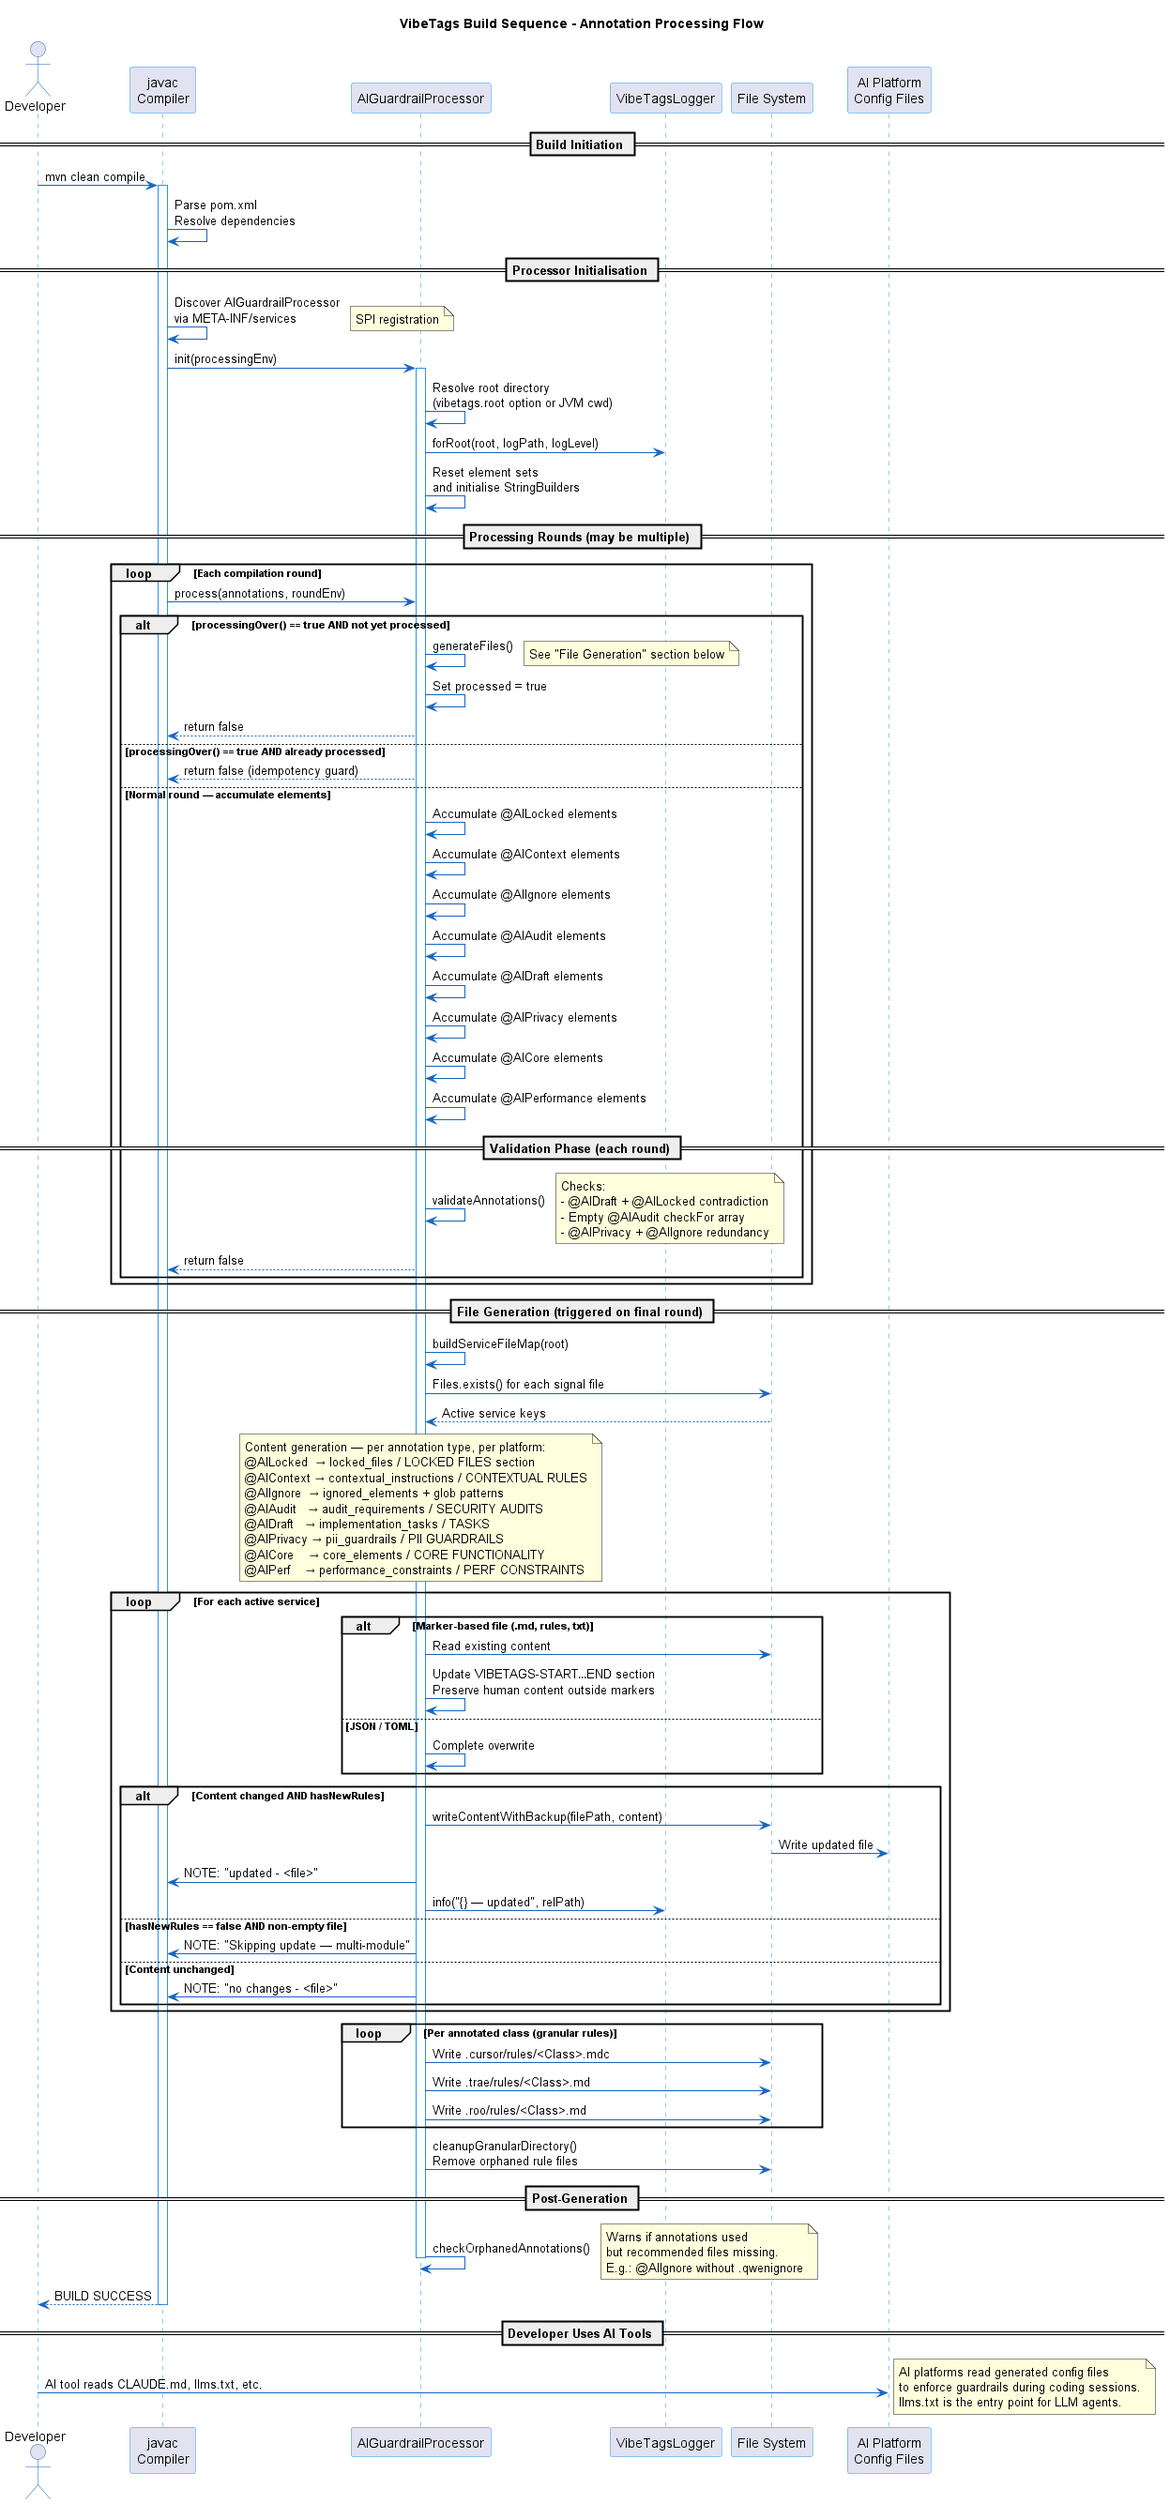
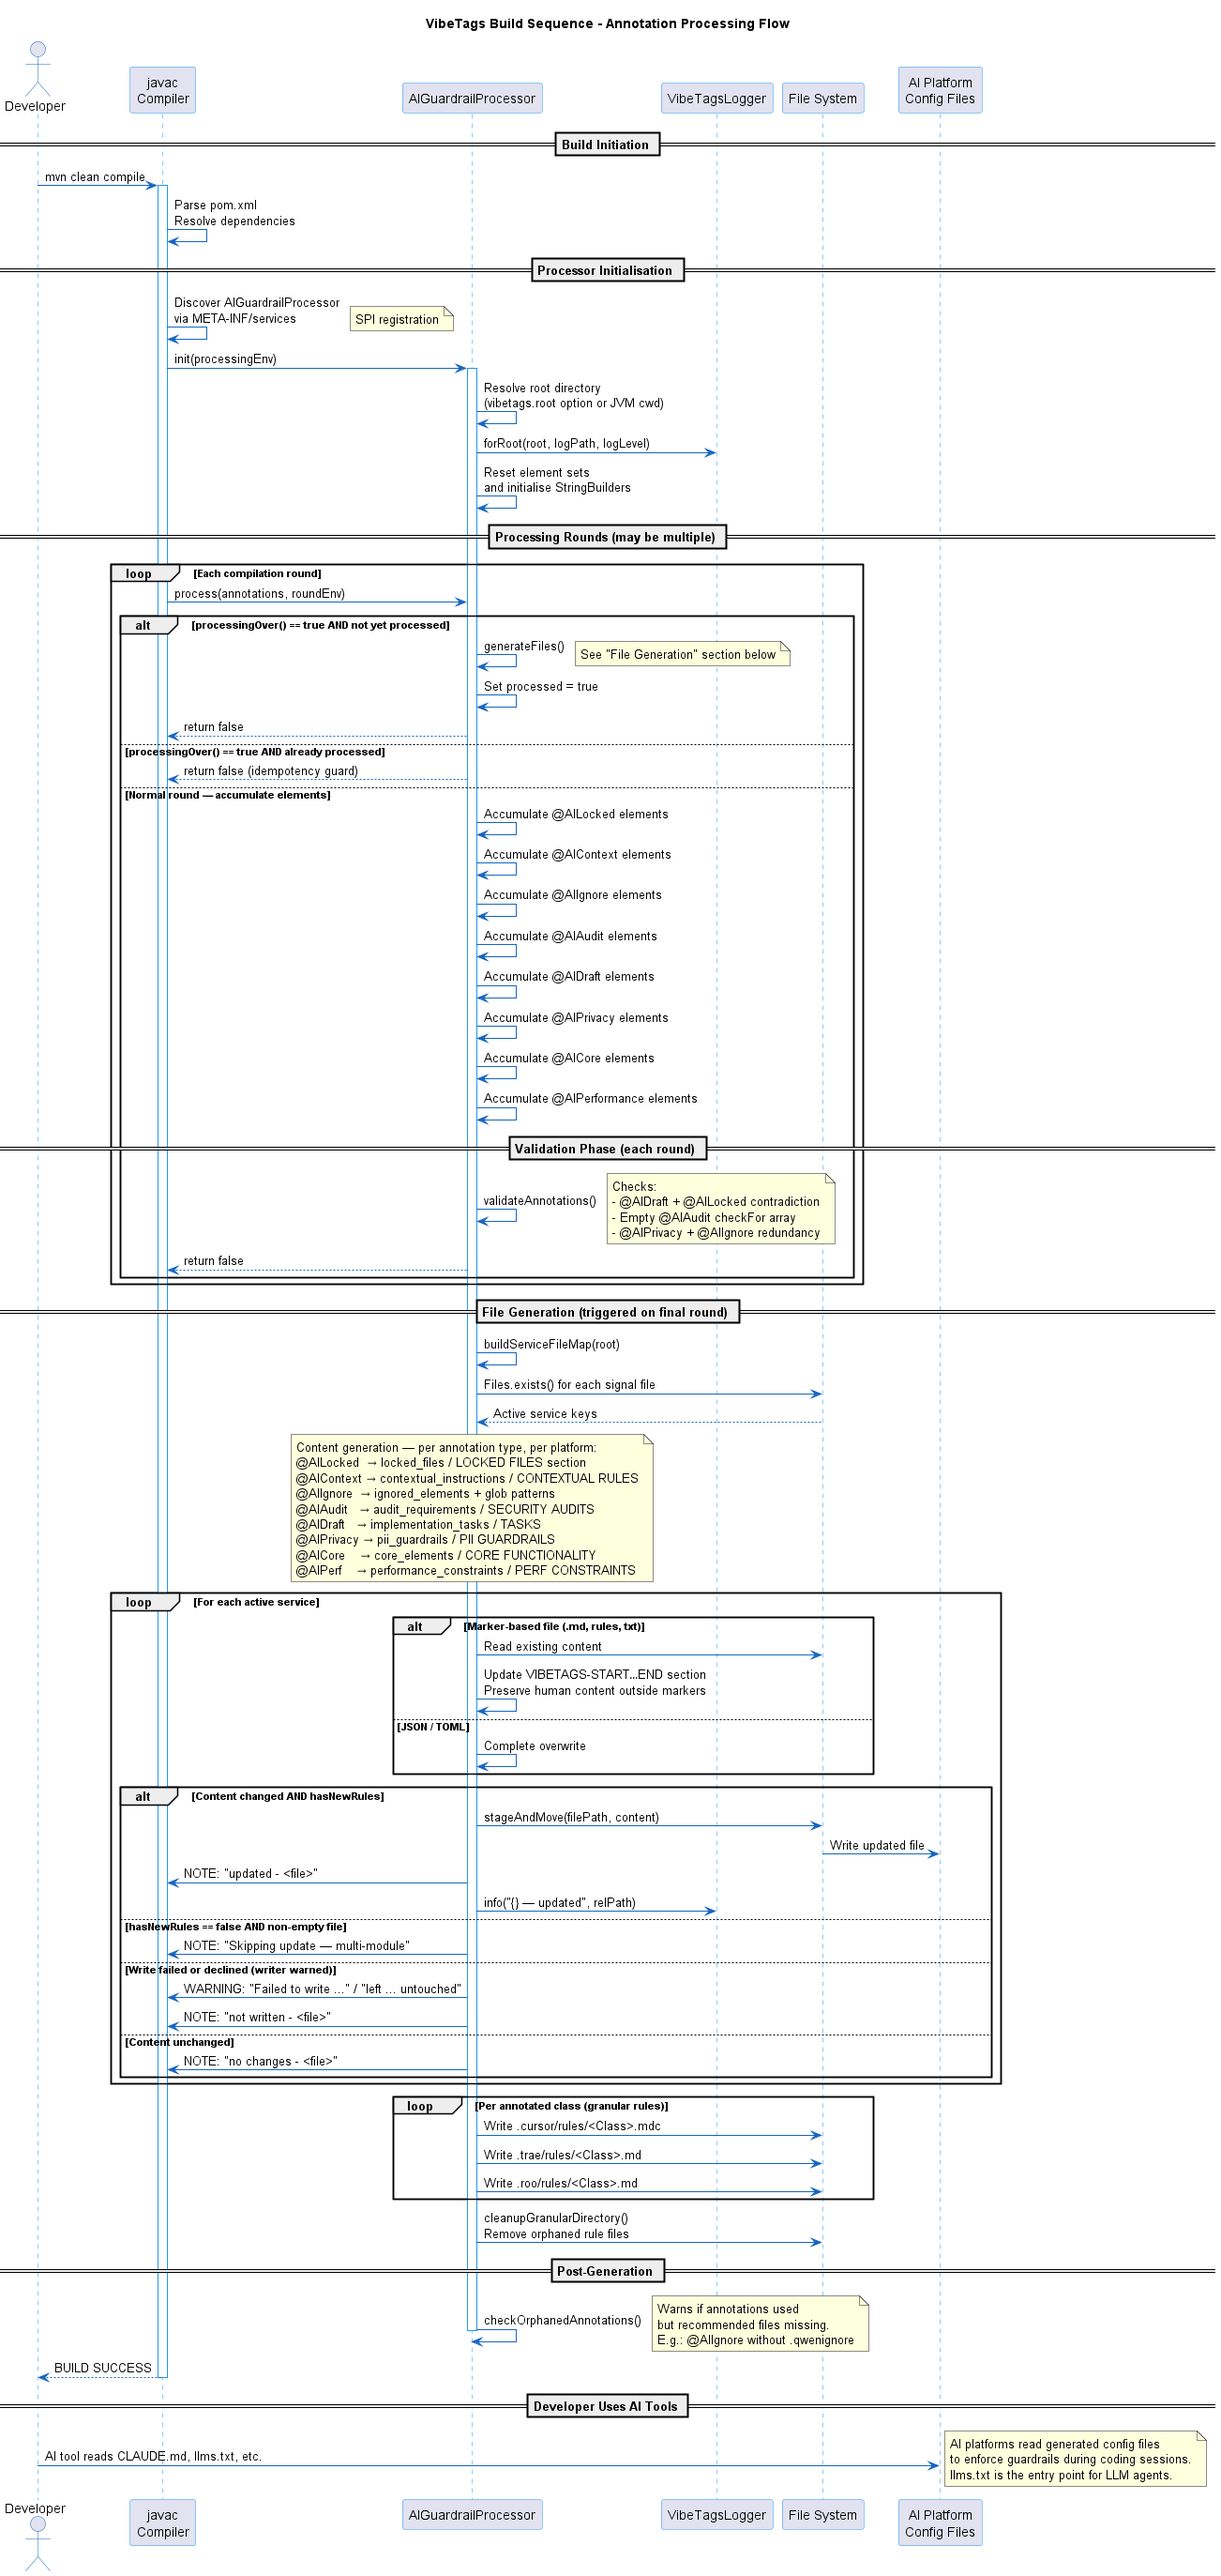
fix: report a file the writer did not write as "not written" (#1208, #1101)
GuardrailFileWriter.writeFileIfChanged answers false both for a file
that was already current and for one it failed to write or declined,
and generateFiles() mapped false to "no changes". So every write warning
was followed by a note contradicting it: a UTF-16 CLAUDE.md printed
"Failed to write AI rules file ... left unchanged" and then "no changes -
CLAUDE.md", and the declined cases (a stray start marker, a file
VibeTags cannot merge into, a hand-written whole-file output) did the
same.

The writer now records each file it warned it did not write
(leftUnwritten), because its boolean is public API, and the status reads
"not written" for those. The status line is printed inside the
@AILocked generateFiles(); the owner approved this edit on #1208, and
the same two-line change replaces the last hand-written forward-slash
conversion there with PathStrings.relative (#1101). The choice of word
lives in a helper after the method, so the locked method keeps its line
count and .vibetags-locks its range.

Verified: FailedWriteStatusNoteTest failed both cases first (the warning
followed by "no changes - CLAUDE.md"), with a .cursorrules written in
the same build still reported as updated. mvn clean install -Pe2e on
JDK 25: 4,706 tests, 0 failures; self-check passes with .vibetags-locks
unchanged. The two PlantUML diagrams that show the notes are updated
and re-rendered.

diff --git a/vibetags/src/test/java/se/deversity/vibetags/processor/FailedWriteStatusNoteTest.java b/vibetags/src/test/java/se/deversity/vibetags/processor/FailedWriteStatusNoteTest.java
@@ -1,0 +1,88 @@
+package se.deversity.vibetags.processor;
+
+import org.junit.jupiter.api.AfterEach;
+import org.junit.jupiter.api.Tag;
+import org.junit.jupiter.api.Test;
+import org.junit.jupiter.api.io.TempDir;
+
+import javax.tools.Diagnostic;
+import javax.tools.JavaFileObject;
+import java.io.ByteArrayOutputStream;
+import java.io.IOException;
+import java.nio.charset.StandardCharsets;
+import java.nio.file.Files;
+import java.nio.file.Path;
+import java.util.List;
+import java.util.Locale;
+
+import static org.junit.jupiter.api.Assertions.assertFalse;
+import static org.junit.jupiter.api.Assertions.assertTrue;
+
+/**
+ * A file the writer warned it did not write is not reported as {@code no changes} (#1208).
+ *
+ * <p>{@code writeFileIfChanged} answers {@code false} both for a file that was already current and
+ * for one it could not or would not write, and the status line after the parallel write mapped
+ * {@code false} to {@code no changes}. So every such warning was followed by a NOTE contradicting
+ * it: a UTF-16 {@code CLAUDE.md} (#878) printed "Failed to write AI rules file ... left unchanged"
+ * and then "no changes - CLAUDE.md". The same held for each file the writer declines with a
+ * warning, such as one with a stray start marker (#865). Such a file is now reported as
+ * {@code not written}.
+ */
+@Tag("e2e")
+class FailedWriteStatusNoteTest {
+
+    private static final String SOURCE = """
+        package com.example;
+        import se.deversity.vibetags.annotations.AILocked;
+        @AILocked(reason = "frozen")
+        public class Frozen {}
+        """;
+
+    @TempDir
+    Path tempDir;
+
+    @AfterEach
+    void tearDown() {
+        VibeTagsLogger.shutdown();
+    }
+
+    @Test
+    void aFileThatFailedToWriteIsReportedAsNotWritten() throws IOException {
+        ByteArrayOutputStream utf16 = new ByteArrayOutputStream();
+        utf16.write(0xFF);
+        utf16.write(0xFE); // UTF-16LE byte order mark
+        utf16.write("# Mine\n".getBytes(StandardCharsets.UTF_16LE));
+        Files.write(tempDir.resolve("CLAUDE.md"), utf16.toByteArray());
+
+        List<String> messages = compileWithCursorRules();
+
+        assertTrue(messages.stream().anyMatch(m -> m.contains("Failed to write AI rules file") && m.contains("CLAUDE.md")),
+            "precondition: the writer warns about the UTF-16 file: " + messages);
+        assertFalse(messages.contains("VibeTags: no changes - CLAUDE.md"),
+            "a file the writer just failed to write is not 'no changes': " + messages);
+        assertTrue(messages.contains("VibeTags: not written - CLAUDE.md"), "the status says what happened: " + messages);
+        assertTrue(messages.contains("VibeTags: updated - .cursorrules"),
+            "a file written in the same build is still reported as updated: " + messages);
+    }
+
+    @Test
+    void aFileTheWriterDeclinedIsReportedAsNotWritten() throws IOException {
+        Files.writeString(tempDir.resolve("CLAUDE.md"), "<!-- VIBETAGS-START -->\nmy own notes\n", StandardCharsets.UTF_8);
+
+        List<String> messages = compileWithCursorRules();
+
+        assertTrue(messages.stream().anyMatch(m -> m.contains("CLAUDE.md") && m.contains("was left untouched")),
+            "precondition: the writer declines the file with a stray start marker: " + messages);
+        assertFalse(messages.contains("VibeTags: no changes - CLAUDE.md"), messages.toString());
+        assertTrue(messages.contains("VibeTags: not written - CLAUDE.md"), messages.toString());
+    }
+
+    private List<String> compileWithCursorRules() throws IOException {
+        ProcessorTestHarness h = new ProcessorTestHarness(tempDir, false);
+        h.touchOptIn(".cursorrules");
+        h.addSource("com.example.Frozen", SOURCE);
+        List<Diagnostic<? extends JavaFileObject>> diagnostics = h.compileReturningDiagnostics();
+        return diagnostics.stream().map(d -> d.getMessage(Locale.ROOT)).toList();
+    }
+}

diff --git a/vibetags/src/main/java/se/deversity/vibetags/processor/internal/GuardrailFileWriter.java b/vibetags/src/main/java/se/deversity/vibetags/processor/internal/GuardrailFileWriter.java
@@ -275,6 +275,7 @@ public final class GuardrailFileWriter {
      *                 {@code e} as it is
      */
     private boolean writeFailed(Path filePath, String path, IOException e, @Nullable String encoding) {
+        leftUnwritten.add(unwrittenKey(filePath));
         String reason;
         if (encoding == null) {
             reason = e.getMessage();
@@ -293,6 +294,27 @@ public final class GuardrailFileWriter {
             writeCache.recordFailure(filePath);
         }
         return false;
+    }
+
+    /**
+     * The files this writer warned it did not write: a write that failed, or one it declined (a
+     * stray start marker, a file it cannot merge into, a hand-written whole-file output).
+     * {@link #writeFileIfChanged} answers {@code false} for these as for a file already current,
+     * and its {@code boolean} is public API, so the caller asks here to tell the two apart (#1208).
+     */
+    private final Set<Path> leftUnwritten = java.util.concurrent.ConcurrentHashMap.newKeySet();
+
+    /**
+     * Whether this writer warned that it did not write {@code file}: it failed, or it declined.
+     * The status line after a write says {@code not written} for such a file instead of
+     * {@code no changes}, which contradicted the warning printed just above it (#1208).
+     */
+    public boolean leftUnwritten(Path file) {
+        return leftUnwritten.contains(unwrittenKey(file));
+    }
+
+    private static Path unwrittenKey(Path file) {
+        return file.toAbsolutePath().normalize();
     }
 
     /** {@link #undecodableEncoding} for a file with no UTF-16 byte order mark. */
@@ -856,6 +878,7 @@ public final class GuardrailFileWriter {
      * found it.
      */
     private boolean declined(Path filePath) {
+        leftUnwritten.add(unwrittenKey(filePath));
         if (!dryRun && writeCache != null) {
             writeCache.recordFailure(filePath);
         }

diff --git a/vibetags/src/main/java/se/deversity/vibetags/processor/AIGuardrailProcessor.java b/vibetags/src/main/java/se/deversity/vibetags/processor/AIGuardrailProcessor.java
@@ -1599,8 +1599,8 @@ public class AIGuardrailProcessor extends AbstractProcessor {
         try {
             pool.submit(() -> plan.writes().parallelStream().forEach(write -> {
                 boolean changed = writeFileIfChanged(write.path().toString(), write.content(), write.hasNewRules());
-                String relPath = root.relativize(write.path()).toString().replace('\\', '/');
-                statusQueue.add(new String[]{relPath, changed ? "updated" : "no changes"});
+                String relPath = PathStrings.relative(root, write.path());
+                statusQueue.add(new String[]{relPath, writeStatus(write.path(), changed)});
             })).get();
         } catch (InterruptedException e) {
             Thread.currentThread().interrupt();
@@ -1701,6 +1701,19 @@ public class AIGuardrailProcessor extends AbstractProcessor {
         collector.reset();
         this.elementRules = new java.util.LinkedHashMap<>();
         VibeTagsLogger.shutdown(root);
+    }
+
+    /**
+     * The status generateFiles() prints for {@code file} after its write: {@code updated},
+     * {@code not written} when the writer warned that it failed or declined, or {@code no changes}.
+     * The writer's {@code false} covers the last two alike, and reporting both as
+     * {@code no changes} contradicted the warning printed just above it (#1208).
+     */
+    private String writeStatus(Path file, boolean changed) {
+        if (changed) {
+            return "updated";
+        }
+        return fileWriter.leftUnwritten(file) ? "not written" : "no changes";
     }
 
     /**

diff --git a/docs/TESTS.md b/docs/TESTS.md
@@ -521,6 +521,7 @@ assumed.
 | `AILockedExcludeGlobTest` | Which locked elements may contribute a `.aiexclude` glob. A glob names a file, so a type does and a member does not: the formatter used to emit `**/<simpleName>.java` for every kind, which was dead weight for a locked method and a silent over-exclusion for a field whose name matched a real file. Asserts both directions, plus that dropping the glob does not drop the lock from the prose platforms |
 | `AiExcludeEmptyContributionEndToEndTest` (`e2e`) | A module or source set with nothing to exclude contributes nothing to `.aiexclude`, not a header with no globs under it. A member-only `@AILocked` is the case that tells "nothing to exclude" from "empty model": the lock is real and reaches the prose files, but emits no glob. The opted-in file still exists afterwards (invariant 1), and a locked type still gets one header and its glob |
 | `UnpairedSurrogateEndToEndTest` | That one annotation attribute holding an unpaired UTF-16 surrogate no longer drops every aggregate of the module (#1141): `CLAUDE.md` and `.cursorrules` keep the other elements' rules and carry the bad character as `?`, the granular rule file does too, one warning names the element, annotation and attribute, and a well-formed surrogate pair is written as it is with no warning |
+| `FailedWriteStatusNoteTest` | A file the writer warned it did not write is reported as `not written`, not `no changes` (#1208): a UTF-16 `CLAUDE.md` (the write fails) and one with a stray start marker (the writer declines it), each beside a `.cursorrules` the same build writes and reports as `updated`. Both cases failed before the fix with the warning followed by `no changes - CLAUDE.md` |
 | `MemberLevelAIIgnoreGlobTest` (`e2e`) | A field's `@AIIgnore`, and a nested type's `@AIIgnore` or `@AILocked`, writes no `**/<name>.java` line into any exclusion file, `.aiexclude` or Greptile's `ignorePatterns`, while an ignored type keeps its glob and the field still reaches the prose outputs; a module whose only `@AIIgnore` is a field contributes no header (#926) |
 | `GranularSourceFileGlobTest` (`e2e`) | A granular rule, and an `@AIIgnore` line in an ignore file, names the file the code is in, in its language (#939): a kapt stub (`@kotlin.Metadata`) is scoped to `<Type>.kt`, a file facade `BillingKt` to `Billing.kt`, a Groovy stub (`GroovyObject`) to `<Type>.groovy`, and a second top-level Java type to the file it is declared in; a change of language alone changes the fingerprint and regenerates the rule (invariant 12). With a `.kapt_metadata` beside an on-disk stub (#955), a class in `Billing.kt` and a facade renamed by `@file:JvmName` name their real file, and a Groovy interface under Gradle's `groovy-java-stubs` gets `<Type>.groovy`. A Groovy type declared in a differently named file is scoped to that file, looked up under `src/<sourceSet>/groovy/<package>/` for Gradle's `compile<SourceSet>Groovy` task and for GMavenPlus's `generated-sources/groovy-stubs/<sourceSet>/` (interfaces included), and keeps `<Type>.groovy` when no file or two files declare it or the only match is inside a comment (#973). KSP's real-file globs are `StubParityTest`'s, in vibetags-ksp |
 | `StubSourceNamesTest` | Reading the real file out of kapt's `.kapt_metadata` (#955), in the layout kapt 2.4.10 was measured writing: the type's own entry wins over its members', Windows paths and lowercase names come through, an entry spread over several serialization blocks is read whole, and a missing file, a missing entry, an unknown version, a non-`.kt` path, an object in the stream or a truncated stream all answer `null` so the guess stands. Also which paths count as Gradle's or GMavenPlus's Groovy stub directory, and the Groovy file lookup's source-set mapping (`compileIntegrationTestGroovy` to `src/integrationTest/groovy`, any build directory) and the layouts it refuses (#973); a string literal containing `/*` does not hide the Groovy declaration below it, and a line of a multi-line string is not a second declaration (#1168) |

diff --git a/docs/CHANGELOG.md b/docs/CHANGELOG.md
@@ -271,6 +271,17 @@ and this project adheres to [Semantic Versioning](https://semver.org/spec/v2.0.0
 
 ### Fixed
 
+- **A file the writer warned it did not write is no longer reported as "no changes" (#1208).** The
+  writer's `false` means both "already current" and "failed or declined", and the status line
+  after the write mapped it to `no changes`, so every write warning was followed by a note
+  contradicting it: a UTF-16 `CLAUDE.md` printed "Failed to write AI rules file ... left unchanged"
+  and then "no changes - CLAUDE.md", and a stray start marker or a file VibeTags cannot merge into
+  did the same. Such a file now reads `not written - <file>`. `GuardrailFileWriter.leftUnwritten`
+  records it, since the writer's `boolean` is public API. The status line is printed inside the
+  `@AILocked` `generateFiles()`; the owner approved this edit there, together with replacing the
+  last hand-written path conversion in it with `PathStrings` (#1101). `FailedWriteStatusNoteTest`
+  failed both cases first.
+
 - **Upgrading a pre-marker file to markers takes one write, not two (#1162).** The upgrade joined the
   hand-written text above the new block with its trailing newline still on, so it left two blank
   lines there; the next build found the block, rebuilt the file with one, and wrote and reported it

diff --git a/docs/architecture/processing.md b/docs/architecture/processing.md
@@ -73,7 +73,7 @@ Three layered fast paths in front of the actual write, in order of cheapness:
 
 After a successful write or a streaming-byte-equal hit, `WriteCache.recordWrite(...)` updates the cache entry. After all platform files are processed, `generateFiles()` calls `writeCache.flush()` once to persist the sidecar atomically.
 
-`Messager` emits NOTE: `"updated"` or `"no changes"` for each file.
+`Messager` emits NOTE: `"updated"`, `"no changes"`, or `"not written"` for each file. The last is for a file the writer warned it failed to write or declined (an undecodable file, a stray start marker, a file it cannot merge into): `writeFileIfChanged` answers `false` for it as for a current file, so `generateFiles()` asks `GuardrailFileWriter.leftUnwritten` instead of printing `"no changes"` under the warning (#1208).
 
 **Phase 6: Orphaned Annotation Check**
 ```java
